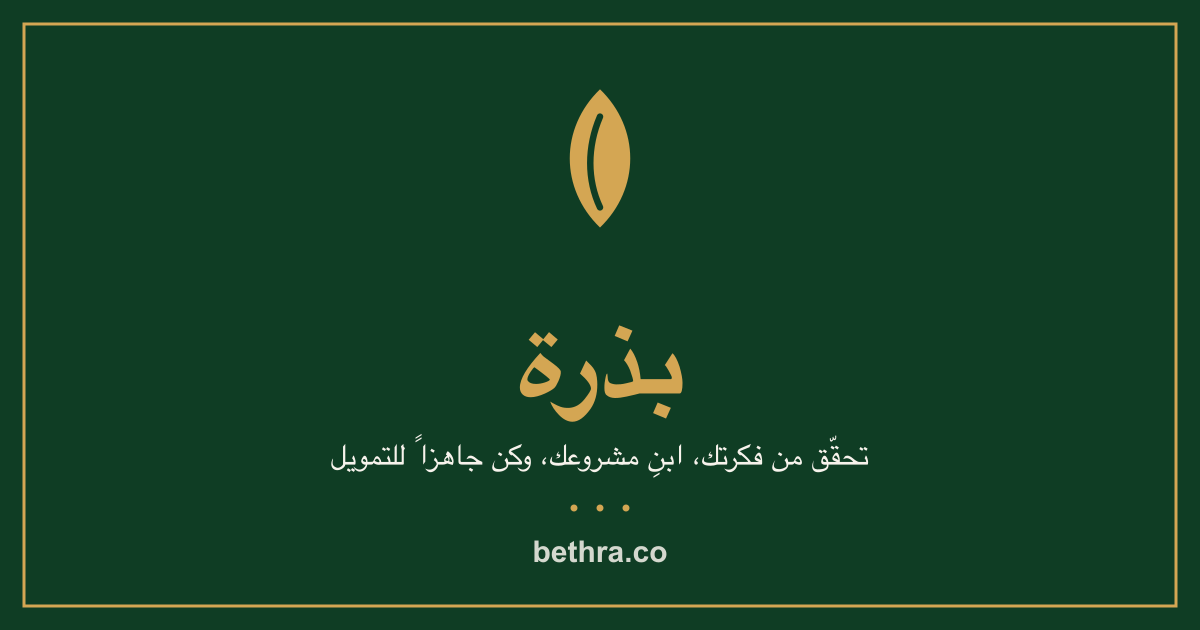
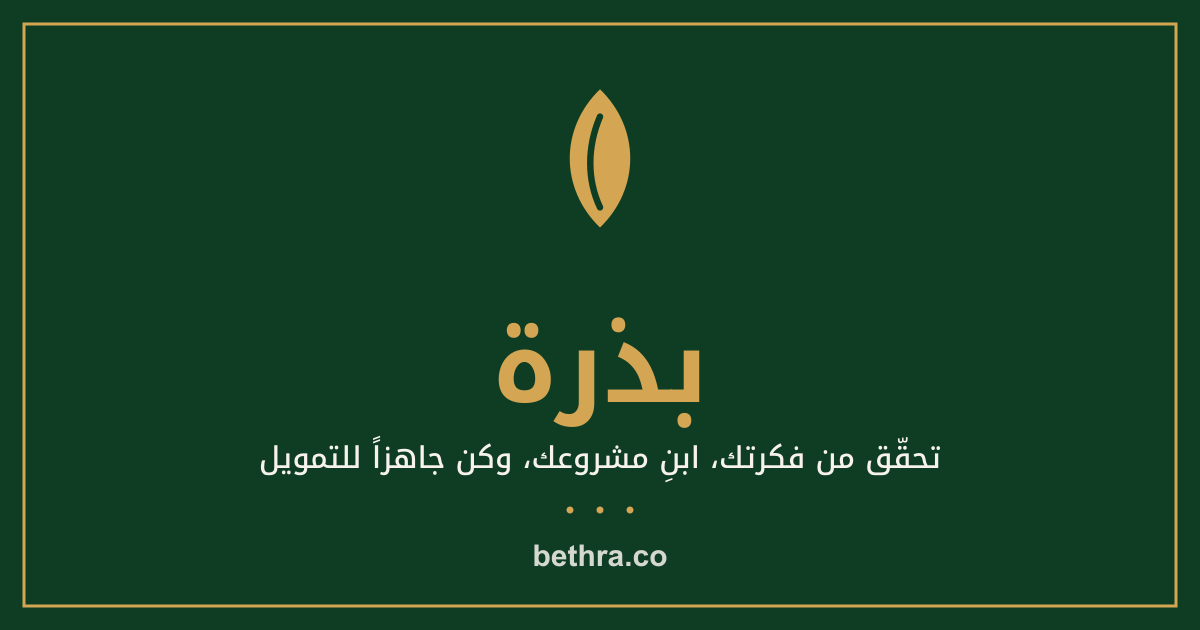
og-image: vectorized Noto Kufi wordmark+tagline; email body web-font
- Regenerate og-image with HarfBuzz-vectorized Noto Kufi (بذرة + tagline)
  — the previous one had the same silent-fallback issue as the email logo.
- Add Google Fonts Noto Kufi <link> + prepend it to the email body
  font-family (renders Kufi in Apple Mail/iOS; Gmail/Outlook strip web
  fonts and fall back, as expected).

Changed region(s): [[0.2158, 0.5127, 0.8017, 0.754], [0.4317, 0.8444, 0.555, 0.9048], [0.4625, 0.7841, 0.5242, 0.8143]]

diff --git a/supabase/functions/_shared/templates.ts b/supabase/functions/_shared/templates.ts
@@ -2,7 +2,7 @@
 // Email clients can't load web fonts reliably, so we use a system stack that
 // renders Arabic well (Segoe UI / Tahoma / Arial).
 
-const FONT_STACK = `'Segoe UI',Tahoma,Arial,sans-serif`;
+const FONT_STACK = `'Noto Kufi Arabic','Segoe UI',Tahoma,Arial,sans-serif`;
 
 const BASE_HEADER = (accentGradient: string, emoji: string, title: string) => `
   <tr><td style="background:${accentGradient};padding:40px;text-align:center;">
@@ -20,7 +20,7 @@ const BASE_FOOTER = `
 
 const WRAP = (header: string, body: string) => `<!DOCTYPE html>
 <html lang="ar" dir="rtl">
-<head><meta charset="UTF-8"><meta name="viewport" content="width=device-width,initial-scale=1"></head>
+<head><meta charset="UTF-8"><meta name="viewport" content="width=device-width,initial-scale=1"><link href="https://fonts.googleapis.com/css2?family=Noto+Kufi+Arabic:wght@400;600;700&display=swap" rel="stylesheet"></head>
 <body style="margin:0;padding:0;background:#F7F3EC;font-family:${FONT_STACK};" dir="rtl">
   <table width="100%" cellpadding="0" cellspacing="0" dir="rtl"><tr><td align="center" style="padding:40px 16px;">
     <table width="580" cellpadding="0" cellspacing="0" dir="rtl" style="background:#fff;border-radius:12px;overflow:hidden;box-shadow:0 2px 16px rgba(0,0,0,0.08);">

diff --git a/supabase/functions/send-email/index.ts b/supabase/functions/send-email/index.ts
@@ -10,11 +10,11 @@ const corsHeaders = {
 // Email clients can't load web fonts reliably; use a system stack that renders
 // Arabic well. Variable names must match what client callers already pass.
 
-const FONT = `'Segoe UI',Tahoma,Arial,sans-serif`;
+const FONT = `'Noto Kufi Arabic','Segoe UI',Tahoma,Arial,sans-serif`;
 
 const WRAP = (gradient: string, emoji: string, headerTitle: string, body: string) => `<!DOCTYPE html>
 <html lang="ar" dir="rtl">
-<head><meta charset="UTF-8"><meta name="viewport" content="width=device-width,initial-scale=1"></head>
+<head><meta charset="UTF-8"><meta name="viewport" content="width=device-width,initial-scale=1"><link href="https://fonts.googleapis.com/css2?family=Noto+Kufi+Arabic:wght@400;600;700&display=swap" rel="stylesheet"></head>
 <body style="margin:0;padding:0;background:#F7F3EC;font-family:${FONT};" dir="rtl">
   <table width="100%" cellpadding="0" cellspacing="0" dir="rtl"><tr><td align="center" style="padding:40px 16px;">
     <table width="560" cellpadding="0" cellspacing="0" dir="rtl" style="background:#fff;border-radius:12px;overflow:hidden;box-shadow:0 2px 16px rgba(0,0,0,0.08);">
